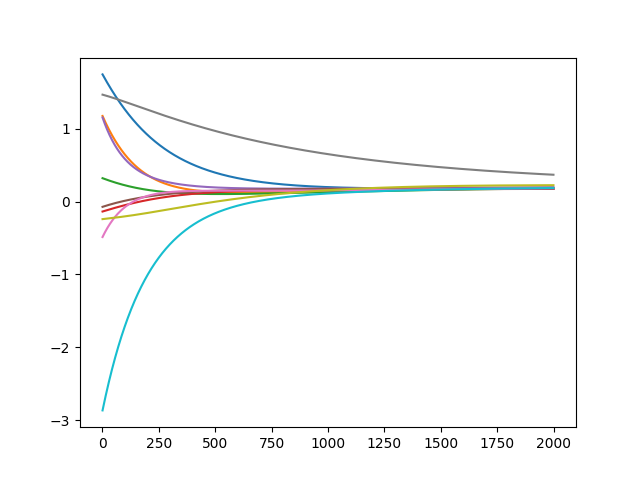
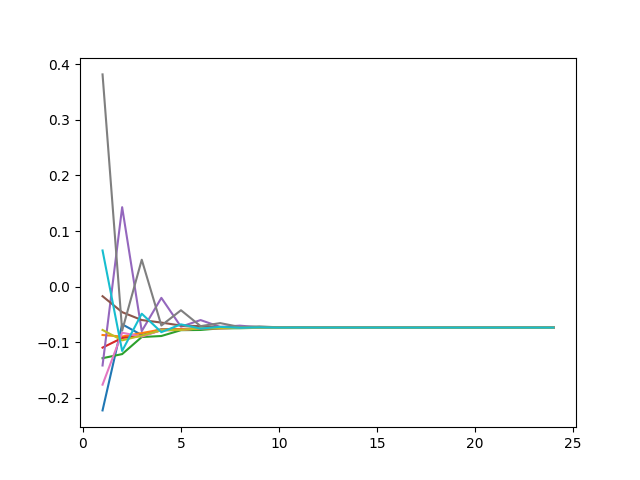
weight design 2 working

diff --git a/consensus_filter_1.py b/consensus_filter_1.py
@@ -1,15 +1,14 @@
 import copy
-from turtle import color
 import matplotlib.pyplot as plt
 import numpy as np
 
-ITERATIONS = 2000
+ITERATIONS = 25
 NUM_NODES = 10
 DIMENSION = 2
 MAX_DISTANCE = 4
 COMMUNICATION_RADIUS = 2.5
 c_v = 0.01
-c_lw = (2 * c_v) / (COMMUNICATION_RADIUS**2 * (NUM_NODES - 1))
+c_2w = (c_v / (COMMUNICATION_RADIUS**2)) / 2
 F1 = 50
 
 def isConnected(network):
@@ -50,7 +49,7 @@ def getNetwork():
             for index, node in enumerate(nodes):
                 name = str(index)
                 if curr_name != name:
-                    if np.linalg.norm(curr_node - node) <= 1.6:
+                    if np.linalg.norm(curr_node - node) <= COMMUNICATION_RADIUS:
                         network[curr_name]['nei'].append(name)
 
         connected = isConnected(network)
@@ -79,6 +78,9 @@ x_i_old = copy.copy(x_i)
 convergence = {i: F1 * np.ones((ITERATIONS, 1)) for i in range(NUM_NODES)}
 weights = {str(i): {str(j): 0 for j in network} for i in network}
 
+def c_1w(len_nei):
+    return (2 * c_v) / (COMMUNICATION_RADIUS**2 * len_nei)
+
 def v_i(pos):
     return ((np.linalg.norm(pos - avgPos)**2) + c_v) / (COMMUNICATION_RADIUS**2)
 
@@ -86,9 +88,20 @@ for i in range(1, ITERATIONS):
     for name in network:
         sigma_weight = 0
         for nei in network[name]['nei']:
-            weights[name][nei] = c_lw / (v_i(network[name]['pos']) + v_i(network[nei]['pos']))
+            # WEIGHT DESIGN 1
+            # weights[name][nei] = c_1w(len(network[name]['nei'])) / (v_i(network[name]['pos']) + v_i(network[nei]['pos']))
+            # WEIGHT DESIGN 2
+            # weights[name][nei] = (1 - weights[name][name]) / len(network[name]['nei'])
+            # MAX-DEGREE WEIGHTS
+            
             sigma_weight += weights[name][nei]
-        weights[name][name] = 1 - sigma_weight
+
+        # WEIGHT DESIGN 1
+        # weights[name][name] = 1 - sigma_weight
+        # WEIGHT DESIGN 2
+        # weights[name][name] = c_2w / v_i(network[name]['pos'])
+        # MAX-DEGREE WEIGHTS
+
 
         addition = 0
         for nei in network[name]['nei']:
@@ -98,15 +111,14 @@ for i in range(1, ITERATIONS):
     
     for j in range(len(x_i)):
         convergence[j][i] -= x_i[j]
+
     x_i_old = copy.copy(x_i)
 
 #   Plot measurements
 measurement_x_initial = [i+1 for i in range(NUM_NODES)]
 measurement_y_initial = x_i_initial
-
 measurement_x_final = [i+1 for i in range(NUM_NODES)]
 measurement_y_final = x_i
-
 plt.plot(measurement_x_initial, measurement_y_initial, label="Initial Measurement")
 plt.plot(measurement_x_final, measurement_y_final, label="Final Measurement")
 plt.xlabel("Node")
